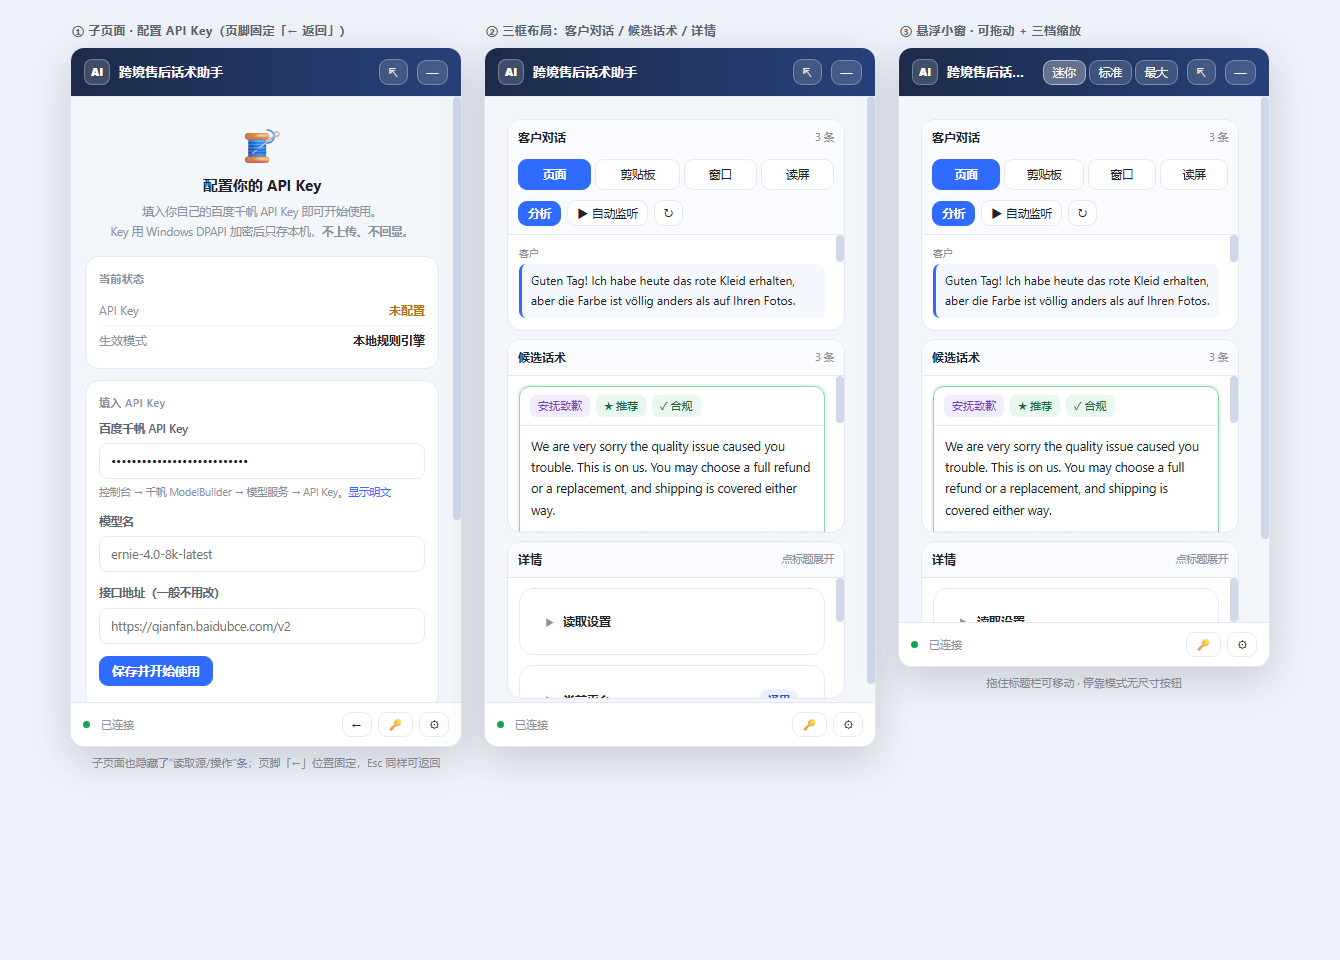
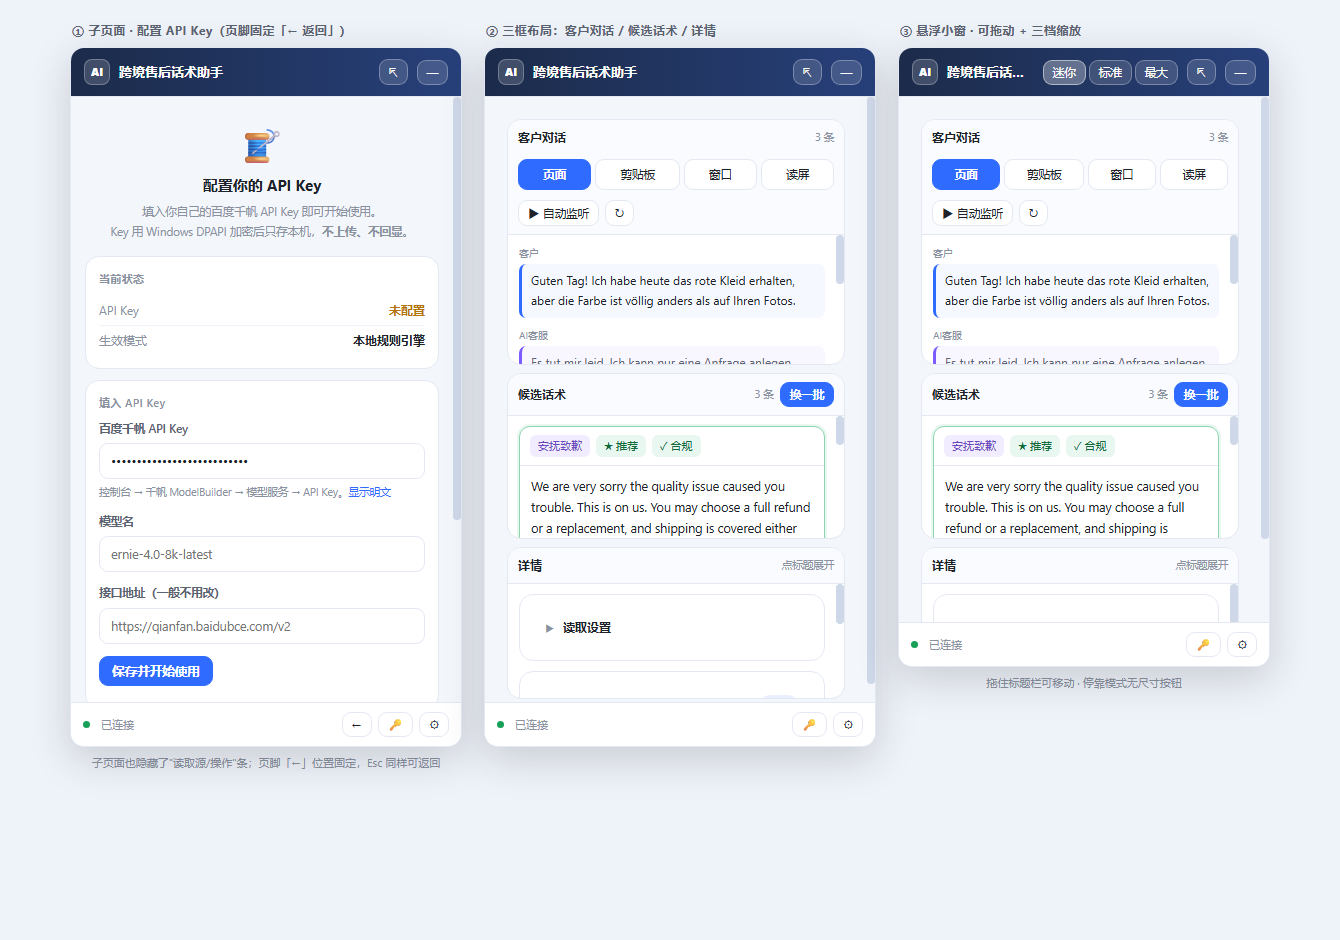
v0.25.0 修「选窗口后读取源按钮消失」+ 分析按钮移到候选话术标题旁改名「换一批」
修复：点「窗口」后上面的读取源切换按钮没有了
- 根因：showWindowPicker() 里做了 body.innerHTML = ''，把整块面板换成窗口列表。
  读取源按钮排也在 body 里，于是跟着消失 —— 用户想换个读法都点不到（收到反馈）。
- 改法：选窗口改成**在①「客户对话」框内部显示**，标题栏（含读取源按钮）保留不动。
  抽成 state.pickWindow / pickWindows / pickLoading 三个状态，
  由 buildChatPane 优先渲染窗口列表；带「取消」按钮。
- 切换读法（useSource）和选中窗口（readWindow）都会清掉 pickWindow。

改：分析按钮 → 换一批，位置移到候选话术标题旁
- 用户反馈「分析」看不懂，且它作用的是下面那个框，按钮和它影响的东西应该挨着
- 现在在「候选话术 3 条」右边，文案「换一批」
- ①号框标题栏只留「▶ 自动监听 / ↻」

预览工具同步（samples/ext_preview.png）

全量测试：BOM / 扩展加载+渲染冒烟 / 契约 / 渲染 22 项 / JS 语法 /
PS 语法 / 后端自检 / 布局 全部通过

diff --git a/111/extension/content.js b/111/extension/content.js
@@ -1,4 +1,4 @@
-/* =====================================================================
+/* =====================================================================
    content.js  ·  侧边栏主体
    在客服后台右侧注入一个面板：读取对话 → 生成话术 → 一键插入输入框
    用 Shadow DOM 隔离样式，避免与宿主页面互相污染。
@@ -26,6 +26,9 @@
     view: 'main',          // main | setup | windows | picker
     viewStack: [],
     src: 'dom',
+    pickWindow: false,      // 是否处于「选窗口」模式（在①号框内显示）
+    pickWindows: [],
+    pickLoading: false,
     folds: {},
     ocrInfo: null,
     uiMode: 'dock',        // dock=挤开页面  float=悬浮可拖动
@@ -621,6 +624,7 @@
   }
 
   async function useSource(id) {
+    state.pickWindow = false;      // 切到别的读法时关掉窗口选择
     state.src = id;
     if (id === 'dom') { render(); analyze(); return; }
 
@@ -651,30 +655,27 @@
     await runAnalyze(t, '读屏 OCR · ' + (ocr.language_used || ''));
   }
 
+  /* 选窗口：**在①「客户对话」框内部显示**，不整屏接管。
+     之前是 body.innerHTML = '' 把整块面板换掉 —— 结果上面的读取源按钮排
+     跟着消失，用户想换个读法都没法点（收到反馈）。
+     现在只把①号框的内容换成窗口列表，标题栏（含读取源）保留不动。 */
   async function showWindowPicker() {
-    state.view = 'windows'; state.viewStack = ['main']; syncBackBtn();
-    state.busy = true; render();
+    state.pickWindow = true;
+    state.pickWindows = [];
+    state.pickLoading = true;
+    state.lastError = '';
+    render();
     const res = await msg('windows');
-    state.busy = false;
+    state.pickLoading = false;
     const wins = (res && res.ok && res.data && res.data.windows) || [];
-    body.innerHTML = '';
-    body.appendChild(h('div', { class: 'banner warn', text: '选择一个要读取的窗口。列表里是当前所有可见窗口。' }));
-    if (!wins.length) {
-      body.appendChild(h('div', { class: 'empty', text: '没取到窗口列表' }));
-      return;
-    }
-    const box = h('div', { class: 'winpick' });
-    wins.forEach(function (w) {
-      const row = h('div', { class: 'winrow' });
-      row.appendChild(h('div', { class: 'wt', text: w.title || '(无标题)' }));
-      row.appendChild(h('div', { class: 'wp', text: (w.process || '') + '  hwnd=' + w.hwnd }));
-      row.onclick = function () { readWindow(w); };
-      box.appendChild(row);
-    });
-    body.appendChild(box);
+    state.pickWindows = wins;
+    if (!wins.length) state.lastError = '没取到窗口列表：' + ((res && res.error) || '未知原因');
+    render();
   }
 
   async function readWindow(w) {
+    state.pickWindow = false;      // 选完就退出选择态
+    state.pickWindows = [];
     state.busy = true; state.lastError = ''; render();
     const res = await msg('uia', { hwnd: w.hwnd, scope: 'window' });   // 注意：msg() 已包一层，这里不能再写 payload
     state.busy = false;
@@ -708,6 +709,13 @@
     chat.hd.appendChild(ctl);
     // ② 候选话术（最大）
     const cands = mk('paneCands', '候选话术', h('span', { class: 'pn', id: 'candCount', text: '' }));
+    // 「换一批」：重新读取当前对话并刷新②号框的候选话术。
+    // 放在候选话术标题旁而不是上面操作条里 —— 它作用的正是这个框的内容，
+    // 按钮和它影响的东西应该挨着（原来叫「分析」，用户反馈看不懂）。
+    cands.hd.appendChild(h('button', {
+      class: 'btn sm pri', text: '换一批', title: '重新读取当前对话，刷新下方候选话术',
+      onclick: () => analyze()
+    }));
     // ③ 详情：包住所有折叠卡片
     const detail = mk('paneDetail', '详情', h('span', { class: 'pn', text: '点标题展开' }));
 
@@ -721,6 +729,31 @@
 
   function buildChatPane(bd, tr, note) {
     bd.innerHTML = '';
+
+    // 选窗口模式：把①号框内容换成窗口列表，**标题栏不动**（读取源按钮仍在）。
+    // 之前是整屏替换 body，导致上面的读取源按钮排消失、用户换不了读法。
+    if (state.pickWindow) {
+      bd.appendChild(h('div', { class: 'sec', text: '选择要读取的窗口' }));
+      if (state.pickLoading) { bd.appendChild(h('div', { class: 'tiny', text: '正在获取窗口列表…' })); return; }
+      if (!state.pickWindows.length) {
+        bd.appendChild(h('div', { class: 'empty', text: '没取到窗口列表' }));
+      } else {
+        const wp = h('div', { class: 'winpick' });
+        state.pickWindows.forEach(function (w) {
+          const row = h('div', { class: 'winrow' });
+          row.appendChild(h('div', { class: 'wt', text: w.title || '(无标题)' }));
+          row.appendChild(h('div', { class: 'wp', text: (w.process || '') + '  hwnd=' + w.hwnd }));
+          row.onclick = function () { readWindow(w); };
+          wp.appendChild(row);
+        });
+        bd.appendChild(wp);
+      }
+      const cancel = h('button', { class: 'btn sm', text: '取消', style: 'margin-top:8px' });
+      cancel.onclick = function () { state.pickWindow = false; state.pickWindows = []; render(); };
+      bd.appendChild(cancel);
+      return;
+    }
+
     if (note) bd.appendChild(h('div', { class: 'banner warn', text: 'ℹ ' + note }));
     const msgs = state.messages || [];
 
@@ -1406,11 +1439,9 @@
     if (!ctl) return;                             // 主视图还没渲染出来
     ctl.innerHTML = '';
 
-    ctl.appendChild(renderSourceBar());
+    ctl.appendChild(renderSourceBar());   // 读取源按钮排（分析按钮已移到候选话术标题旁）
 
     const row1 = h('div', { class: 'row', style: 'margin-top:6px' });
-    row1.appendChild(h('button', { class: 'btn pri sm', text: '分析',
-      title: '读取当前对话并刷新下方候选话术', onclick: analyze }));
     row1.appendChild(state.watching
       ? h('button', { class: 'btn dan sm', text: '⏹ 停止', onclick: stopWatch })
       : h('button', { class: 'btn sm', text: '▶ 自动监听', onclick: startWatch }));

diff --git a/111/samples/ext_preview.html b/111/samples/ext_preview.html
@@ -108,11 +108,11 @@
 .pane-bd::-webkit-scrollbar{width:8px}
 .pane-bd::-webkit-scrollbar-thumb{background:#cfd8e8;border-radius:4px}
 /* ① 客户对话：中等高度 */
-#paneChat{flex:0 0 auto;height:212px}
+#paneChat{flex:0 0 auto;height:246px}
 /* ② 候选话术：占剩下的全部（最大） */
 #paneCands{flex:1 1 auto;min-height:150px}
 /* ③ 详情：包住那些下拉栏 */
-#paneDetail{flex:0 0 auto;height:158px}
+#paneDetail{flex:0 0 auto;height:152px}
 .pane-bd .card:last-child,.pane-bd .fold:last-child{margin-bottom:0}
 /* 对话气泡（客户对话框内） */
 .chatmsg{margin-bottom:9px}
@@ -259,7 +259,6 @@ body{margin:0;padding:22px;background:#eef2f9;font-family:"Segoe UI","Microsoft 
           <button class="srcbtn">读屏</button>
         </div>
         <div class="row" style="margin-top:6px">
-          <button class="btn pri sm">分析</button>
           <button class="btn sm">▶ 自动监听</button>
           <button class="btn sm">↻</button>
         </div>
@@ -282,7 +281,7 @@ body{margin:0;padding:22px;background:#eef2f9;font-family:"Segoe UI","Microsoft 
   </div>
 
   <div class="pane" id="paneCands">
-    <div class="pane-hd"><span class="pt">候选话术</span><span class="pn">3 条</span></div>
+    <div class="pane-hd"><span class="pt">候选话术</span><span class="pn">3 条</span><button class="btn sm pri">换一批</button></div>
     <div class="pane-bd">
       <div class="cand rec">
         <div class="ch"><span class="tag st">安抚致歉</span><span class="tag ok">★ 推荐</span><span class="tag ok">✓ 合规</span></div>
@@ -359,7 +358,6 @@ body{margin:0;padding:22px;background:#eef2f9;font-family:"Segoe UI","Microsoft 
           <button class="srcbtn">读屏</button>
         </div>
         <div class="row" style="margin-top:6px">
-          <button class="btn pri sm">分析</button>
           <button class="btn sm">▶ 自动监听</button>
           <button class="btn sm">↻</button>
         </div>
@@ -382,7 +380,7 @@ body{margin:0;padding:22px;background:#eef2f9;font-family:"Segoe UI","Microsoft 
   </div>
 
   <div class="pane" id="paneCands">
-    <div class="pane-hd"><span class="pt">候选话术</span><span class="pn">3 条</span></div>
+    <div class="pane-hd"><span class="pt">候选话术</span><span class="pn">3 条</span><button class="btn sm pri">换一批</button></div>
     <div class="pane-bd">
       <div class="cand rec">
         <div class="ch"><span class="tag st">安抚致歉</span><span class="tag ok">★ 推荐</span><span class="tag ok">✓ 合规</span></div>

diff --git a/111/tools/ext-preview.js b/111/tools/ext-preview.js
@@ -121,7 +121,6 @@ const mainView = `
           <button class="srcbtn">读屏</button>
         </div>
         <div class="row" style="margin-top:6px">
-          <button class="btn pri sm">分析</button>
           <button class="btn sm">▶ 自动监听</button>
           <button class="btn sm">↻</button>
         </div>
@@ -144,7 +143,7 @@ const mainView = `
   </div>
 
   <div class="pane" id="paneCands">
-    <div class="pane-hd"><span class="pt">候选话术</span><span class="pn">3 条</span></div>
+    <div class="pane-hd"><span class="pt">候选话术</span><span class="pn">3 条</span><button class="btn sm pri">换一批</button></div>
     <div class="pane-bd">
       <div class="cand rec">
         <div class="ch"><span class="tag st">安抚致歉</span><span class="tag ok">★ 推荐</span><span class="tag ok">✓ 合规</span></div>
